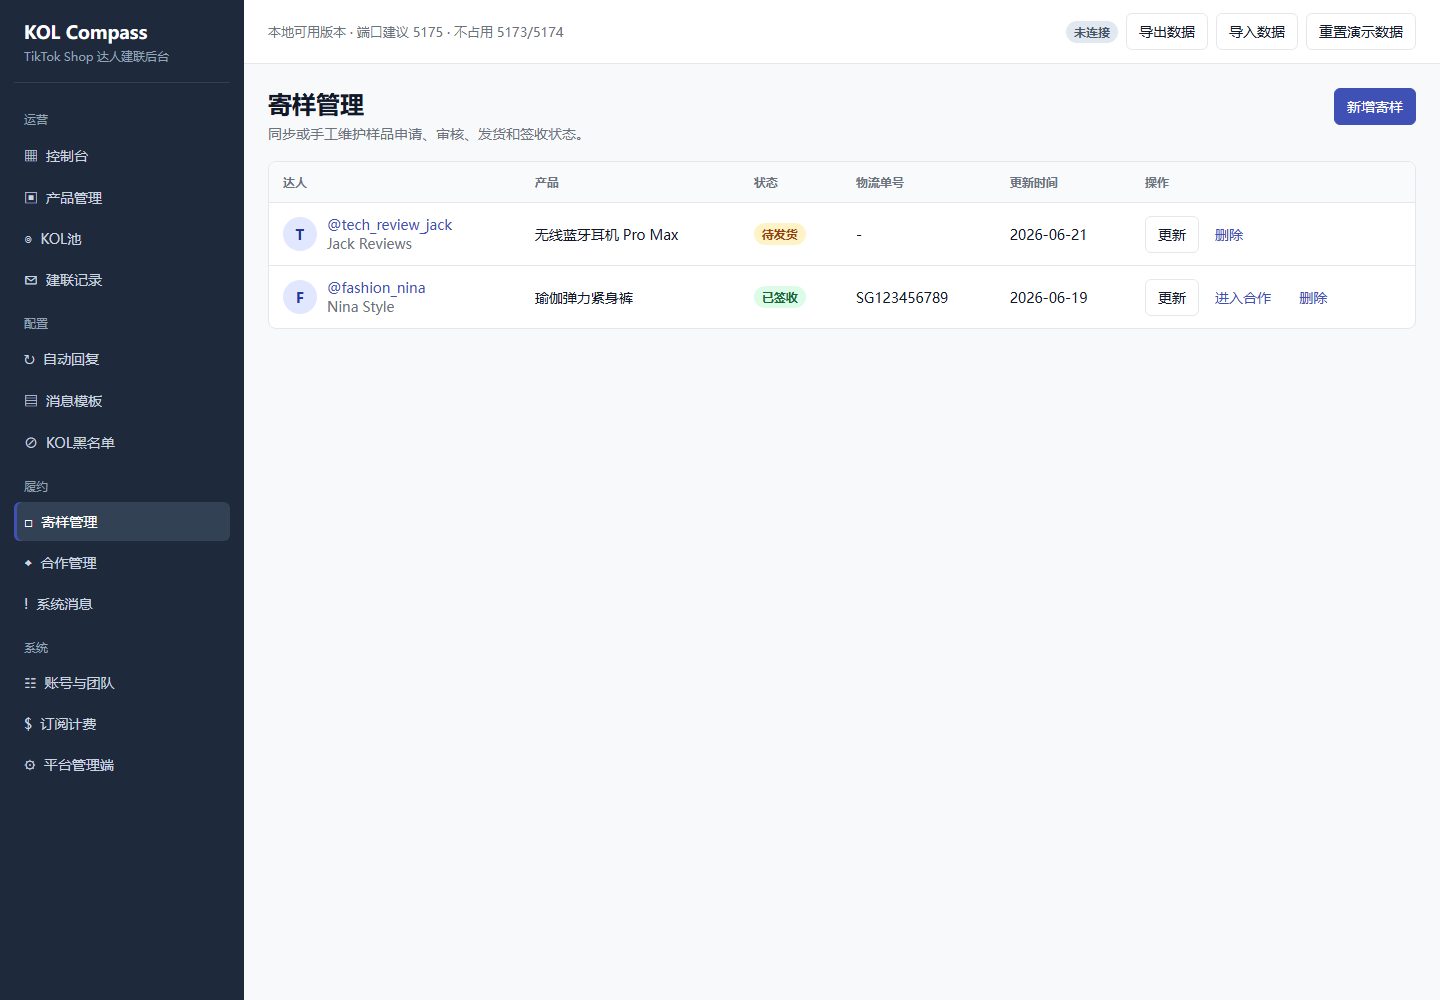
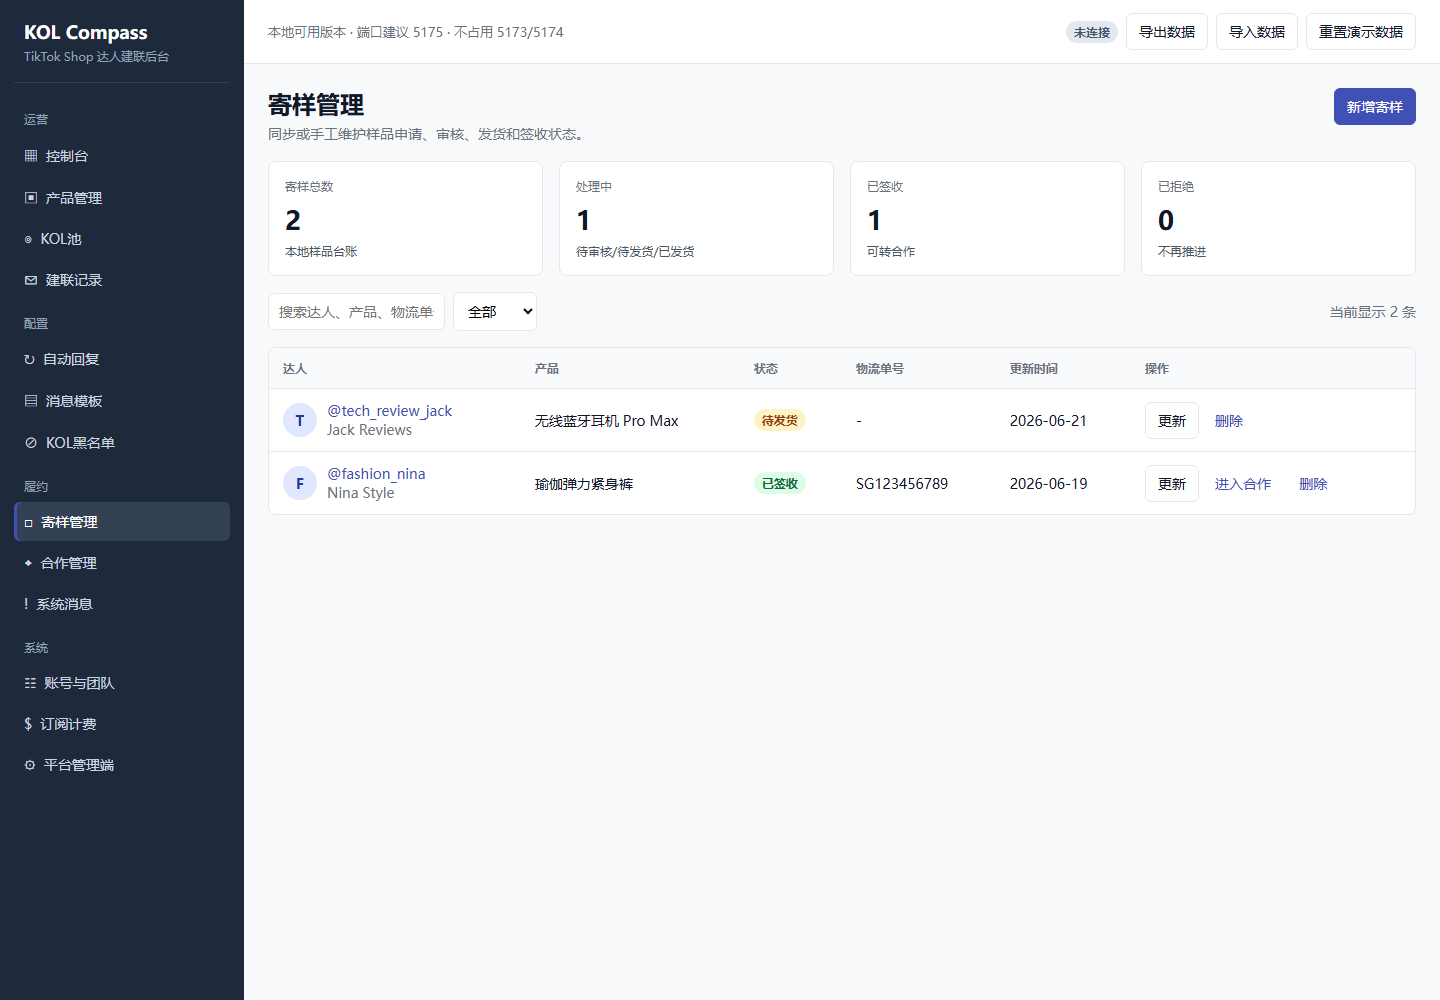
Add sample management filters

diff --git a/app.js b/app.js
@@ -54,6 +54,8 @@ const seed = {
     outreachSearch: "",
     outreachStatus: "全部",
     outreachChannel: "全部",
+    sampleSearch: "",
+    sampleStatus: "全部",
     coopSearch: "",
     coopOutput: "全部",
     coopStatus: "全部",
@@ -790,9 +792,38 @@ function renderBlacklist() {
 }
 
 function renderSamples() {
+  const statuses = Array.from(new Set(state.samples.map((s) => s.status).filter(Boolean)));
+  const rows = state.samples.filter((s) => {
+    const c = creator(s.creatorId);
+    const p = product(s.productId);
+    const kw = state.filters.sampleSearch.trim().toLowerCase();
+    const kwOk = !kw || [c?.username, c?.nickname, p?.name, s.status, s.tracking].join(" ").toLowerCase().includes(kw);
+    const statusOk = state.filters.sampleStatus === "全部" || s.status === state.filters.sampleStatus;
+    return kwOk && statusOk;
+  });
+  const openCount = state.samples.filter((s) => !["已签收", "已拒绝"].includes(s.status)).length;
+  const signedCount = state.samples.filter((s) => s.status === "已签收").length;
+  const rejectedCount = state.samples.filter((s) => s.status === "已拒绝").length;
   return `
     ${pageHead("寄样管理", "同步或手工维护样品申请、审核、发货和签收状态。", `<button class="btn primary" onclick="openSampleModal()">新增寄样</button>`)}
-    ${table(["达人", "产品", "状态", "物流单号", "更新时间", "操作"], state.samples.map((s) => [
+    <div class="grid grid-4">
+      ${stat("寄样总数", state.samples.length, "本地样品台账")}
+      ${stat("处理中", openCount, "待审核/待发货/已发货")}
+      ${stat("已签收", signedCount, "可转合作")}
+      ${stat("已拒绝", rejectedCount, "不再推进")}
+    </div>
+    <div class="toolbar">
+      <div class="filters">
+        <input class="input" placeholder="搜索达人、产品、物流单号..." value="${escapeHtml(state.filters.sampleSearch)}" oninput="setFilter('sampleSearch', this.value)" />
+        <select class="select" onchange="setFilter('sampleStatus', this.value)">
+          ${["全部", ...statuses].map((x) => `<option ${state.filters.sampleStatus === x ? "selected" : ""}>${escapeHtml(x)}</option>`).join("")}
+        </select>
+      </div>
+      <div class="filters">
+        <span class="muted">当前显示 ${rows.length} 条</span>
+      </div>
+    </div>
+    ${table(["达人", "产品", "状态", "物流单号", "更新时间", "操作"], rows.map((s) => [
       personCell(creator(s.creatorId)),
       product(s.productId)?.name || "-",
       badge(s.status),

diff --git a/smoke-test.js b/smoke-test.js
@@ -79,6 +79,7 @@ async function main() {
   assert("message template CRUD supported", ["openTemplateModal", "saveTemplate", "deleteTemplate"].every((name) => app.includes(`function ${name}`)) && app.includes("支持变量"));
   assert("outreach workflow advances to sample and cooperation", ["advanceOutreach", "createSampleFromOutreach", "createCoopFromOutreach", "deleteOutreach"].every((name) => app.includes(`function ${name}`)));
   assert("sample workflow supports edit and cooperation handoff", ["openSampleModal", "saveSample", "createCoopFromSample", "deleteSample"].every((name) => app.includes(`function ${name}`)));
+  assert("sample filters and status summary supported", ["sampleSearch", "sampleStatus"].every((name) => app.includes(name)) && app.includes("搜索达人、产品、物流单号") && app.includes("可转合作"));
   assert("CSV imports supported", app.includes("function importCreatorsCsv") && app.includes("function importCoopsCsv") && app.includes("parseCsv"));
   assert("local data import/export supported", app.includes("function exportState") && app.includes("function importState"));
   assert("hash routes supported", app.includes("routeFromHash") && app.includes("kol/creator/"));

diff --git a/docs/PROJECT_MEMORY.md b/docs/PROJECT_MEMORY.md
@@ -1,6 +1,6 @@
 # KOL Compass 项目记忆
 
-更新时间：2026-06-22 05:11 CST
+更新时间：2026-06-22 05:15 CST
 
 ## 当前工作目录
 
@@ -56,7 +56,7 @@ node smoke-test.js
 - KOL 池截图 `smoke-kol-pool.png` 已重新生成并目视检查通过。
 - KOL 详情截图 `smoke-kol-detail.png` 已重新生成并目视检查通过。
 - 消息模板截图 `smoke-templates.png` 已生成并目视检查通过。
-- 寄样管理截图 `smoke-samples.png` 已生成并目视检查通过。
+- 寄样管理截图 `smoke-samples.png` 已重新生成并目视检查通过，状态总览、搜索、状态筛选和转合作入口可见。
 - `5175` 是本项目端口。
 - `5173` / `5174` 不属于本项目，不能占用或关闭。
 - 控制台已支持按本月/近7天/近30天/全部筛选，并支持按合作负责人筛选；活动指标按更新时间统计，合作履约指标按产出截止日统计。
@@ -86,7 +86,7 @@ node smoke-test.js
 - 消息模板已支持新增、编辑、删除，编辑字段包括模板名称、渠道、内容，并提示可用变量。
 - 本地数据支持 JSON 导入/导出。
 - 建联记录已支持：标记已回复、安排寄样、进入合作、关闭、删除。
-- 寄样管理已支持：新增/更新寄样、删除、已签收后进入合作。
+- 寄样管理已支持：状态总览、达人/产品/物流单号搜索、状态筛选、新增/更新寄样、删除、已签收后进入合作。
 - 系统消息已支持同步日志与通知中心：记录 API/商品/达人/内容订单同步的模块、状态、失败原因和时间；支持类型筛选、已读筛选、全部已读、单条已读、删除和 90 天本地保留；外部 API 未授权时不伪造同步成功。
 
 ## 当前阻塞

diff --git a/docs/CLAUDE_CONTINUE.md b/docs/CLAUDE_CONTINUE.md
@@ -31,7 +31,7 @@
 - `stop-5175.bat`
 - `smoke-test.js`
 
-最近一次心跳检查：2026-06-22 05:11 CST，当前分支已连接 GitHub 远端，`node --check app.js` 与 `node smoke-test.js` 通过。本轮增强平台管理端：商家统计、入驻审批台账、通过/驳回/恢复待审动作、系统消息和操作日志记录；截图 `smoke-admin.png` 已重新生成并目视检查通过。
+最近一次心跳检查：2026-06-22 05:15 CST，当前分支已连接 GitHub 远端，`node --check app.js` 与 `node smoke-test.js` 通过。本轮增强寄样管理：状态总览、达人/产品/物流单号搜索、状态筛选；截图 `smoke-samples.png` 已重新生成并目视检查通过。
 
 启动：
 
@@ -122,6 +122,7 @@ P0：
    - 回复后沟通状态回到待达人回复
    - 消息模板可新增、编辑、删除，并保留变量提示
    - 自动回复可新增、编辑、删除、启停和本地测试触发；真实发送必须等 TikTok/Email/WhatsApp 接入完成后再启用外部发送
+   - 寄样管理支持状态总览、达人/产品/物流单号搜索、状态筛选、新增/更新、删除和已签收后进入合作
 8. 增强数据持久化：
    - 当前使用 localStorage
    - 后续如果需要后端，新增本项目自己的后端端口，例如 `8015`

diff --git a/README.md b/README.md
@@ -79,7 +79,7 @@ KOL CSV 支持表头：
 - 系统消息包含同步日志和通知中心，支持类型筛选、已读筛选、全部已读、单条已读、删除，并本地保留最近 90 天。
 - 消息模板支持新增、编辑、删除，并提示可用变量。
 - 账号与团队支持新增/编辑/启禁用成员、角色权限摘要、可访问店铺配置和操作日志。
-- 建联记录支持从沟通状态推进到寄样或合作；寄样管理支持从已签收样品进入合作管理。
+- 建联记录支持从沟通状态推进到寄样或合作；寄样管理支持状态总览、达人/产品/物流单号搜索、状态筛选，并可从已签收样品进入合作管理。
 - 订阅计费支持本地切换套餐，并即时影响建联配额提示和建联拦截。
 - 已覆盖控制台、产品管理、KOL池、建联记录、自动回复、消息模板、黑名单、寄样管理、合作管理、系统消息、账号团队、订阅计费、平台管理端。
 - 合作管理是内容追踪唯一主入口，包含已产出/未产出、视频、直播、GMV、订单、佣金、ROI 和自定义标签筛选。
